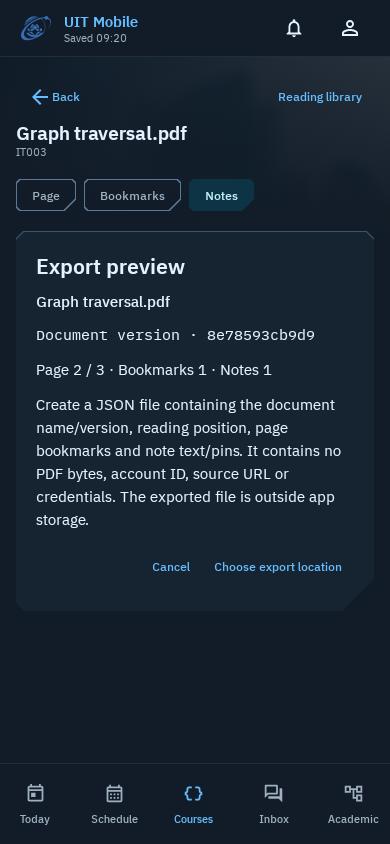
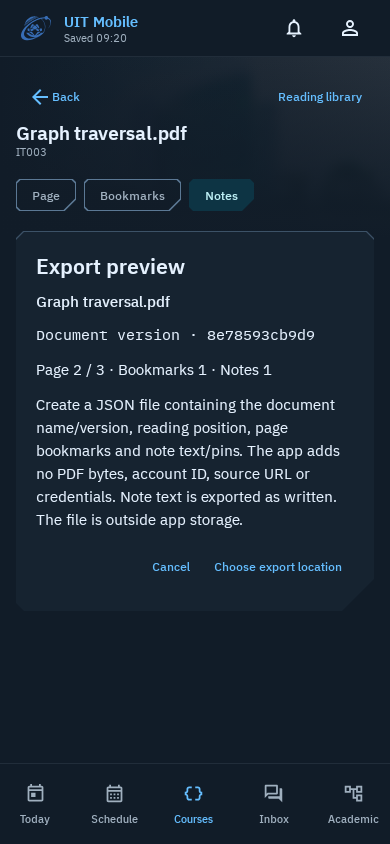
fix(courses): refine export copy and native reading checks
Make native gestures relative to the page and outside the centered note control, collect failure captures without masking test status, and clarify that typed note content is exported verbatim. Keep the first native failure documented.

Validation: focused reading tests and instrumentation APK build passed locally. The corrected native flow will rerun in CI.

Changed region(s): [[0.0923, 0.5237, 0.8615, 0.6469]]

diff --git a/app/src/androidTest/kotlin/vn/edu/uit/mobile/CourseReadingNativeTest.kt b/app/src/androidTest/kotlin/vn/edu/uit/mobile/CourseReadingNativeTest.kt
@@ -145,12 +145,13 @@ class CourseReadingNativeTest {
             compose.onNodeWithTag("reading-note-editor").performTextInput("Synthetic native page note")
             compose.onNodeWithTag("reading-save-note").performClick()
             compose.waitUntil(15000) { vm.uiState.value.record?.notes?.size == 1 && vm.uiState.value.draft == null && !vm.uiState.value.saving }
-            compose.onNodeWithTag("reading-page").performTouchInput {
-                pinch(center - Offset(40f, 0f), center + Offset(40f, 0f), center - Offset(100f, 0f), center + Offset(100f, 0f))
+            compose.onNodeWithTag("reading-page").performScrollTo().performTouchInput {
+                // Start on the page, outside the centered note's native touch target at any density.
+                pinch(center - Offset(width * .25f, 0f), center + Offset(width * .25f, 0f), center - Offset(width * .4f, 0f), center + Offset(width * .4f, 0f))
             }
             compose.waitUntil(15000) { vm.uiState.value.position.zoom > 1f }
             compose.onNodeWithText("Fit page").performScrollTo().performClick()
-            compose.onNodeWithTag("reading-page").performScrollTo().performTouchInput { doubleClick(center) }
+            compose.onNodeWithTag("reading-page").performScrollTo().performTouchInput { doubleClick(Offset(width * .2f, height * .2f)) }
             compose.waitUntil(15000) { vm.uiState.value.position.zoom > 1f }
             compose.runOnIdle { vm.savePosition() }
             compose.waitUntil(15000) { !vm.uiState.value.dirty && !vm.uiState.value.saving }
@@ -175,6 +176,9 @@ class CourseReadingNativeTest {
             assertArrayEquals(ReadingFixtures.pdf, pdf.readBytes())
             compose.runOnIdle { connected.value = emptyList() }
             compose.waitUntil(15000) { vm.uiState.value.image == null && vm.uiState.value.record == null }
+        } catch (failure: Throwable) {
+            runCatching { screenshot("reading-native-failure") }
+            throw failure
         } finally {
             InstrumentationRegistry.getInstrumentation().runOnMainSync { models.clear() }
             root.deleteRecursively()

diff --git a/docs/COURSE-READING-EVIDENCE.md b/docs/COURSE-READING-EVIDENCE.md
@@ -21,6 +21,13 @@ normal GitHub Android 11/API 30 job alongside the eight existing native tests.
 Final-head results and captured native pages are linked on the PR after CI completes.
 No paid model test or university credential is required for this feature.
 
+The first native run passed 10 of 11 cases, including the renderer and encrypted
+storage tests. The reader workflow timed out during pinch after creating a centered
+note. Its gesture coordinates were changed to scale with the visible page and
+avoid the annotation button's touch target; the canvas is scrolled into view before
+gestures. Failure captures are now collected without masking the test exit status.
+See the PR's final-head report for the subsequent complete native result.
+
 ## Host rendering boundary
 
 The 25 host captures below use the production Compose screens and ViewModel with
